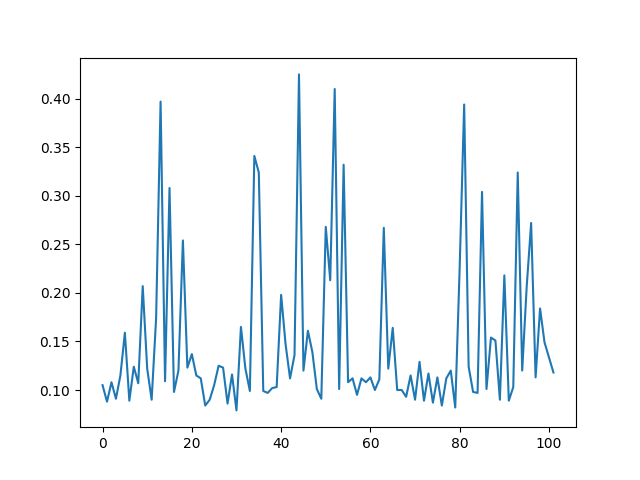
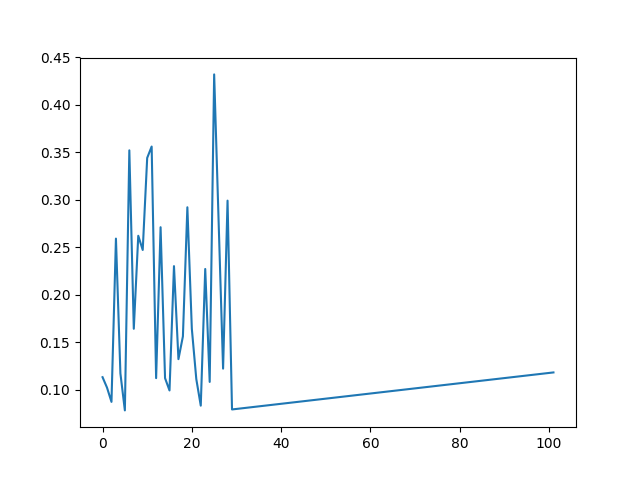
worked on improving replay agent

diff --git a/lstm_agent.py b/lstm_agent.py
@@ -16,7 +16,7 @@ from keras.layers import Dense, Dropout
 from keras.layers import Embedding
 from keras.layers import LSTM
 
-max_layers = 3
+max_layers = 5
 DIM = 16
 Action = namedtuple('Action', ['name', 'args'])
 
@@ -44,7 +44,9 @@ class QAgent:
 
     def compile_model(self):
         model = Sequential()
-        model.add(LSTM(128, input_shape=(None, DIM)))
+        model.add(LSTM(128, input_shape=(None, DIM), return_sequences=True))
+        model.add(Dropout(0.5))
+        model.add(LSTM(128))
         model.add(Dropout(0.5))
         model.add(Dense(1, activation='sigmoid'))
         model.compile(loss='mean_squared_error',
@@ -72,7 +74,7 @@ class QAgent:
 
         # Max 2 pooling layers in a row
         if action.name in ['ap','mp']:
-            return len(state) == 1 or state[-2].name not in ['ap','mp']
+            return len(state) == 1 and state[-1].name not in ['ap','mp']
 
         if action.name == 'd' or action.name == 'o':
             return prev_layer.name in ['f', 'd']
@@ -144,7 +146,7 @@ class QAgent:
 
     def calcVOpt(self, state, act):
         next_state = state + [act]
-        candidates = []
+        candidates = [0.1]
         successors = self._successors(next_state)
 
         # Current action is taking us into end state

diff --git a/lstm_main.py b/lstm_main.py
@@ -8,15 +8,15 @@ from lstm_ReplayAgent import ReplayAgent
 import matplotlib.pyplot as plt
 
 def main():
-    agent = ReplayAgent(gamma=0.95, lr=.0001,
+    agent = ReplayAgent(gamma=1, lr=.0001,
                         action_file='actions.json', exploreProb=0.1, log_file='history.txt')
     x, y = [], []
     for i in range(100):
+        print(i)
+        agent.replay_learn()
+    for i in range(30):
         x.append(i)
         y.append(agent.learn())
-
-    x.append(101)
-    y.append(agent.learn())
 
     plt.figure()
     plt.plot(x, y)

diff --git a/lstm_ReplayAgent.py b/lstm_ReplayAgent.py
@@ -46,5 +46,8 @@ class ReplayAgent(QAgent):
             self.numIters += 1
             self.update(state, action)
             state.append(action)
+        action = self.saved_actions[-1]
+        r = np.array([self.final_reward])
+        print(action, r)
+        self.model.fit(self.featurize(state, action)[np.newaxis, :, :], r)
         return self.final_reward
-    
